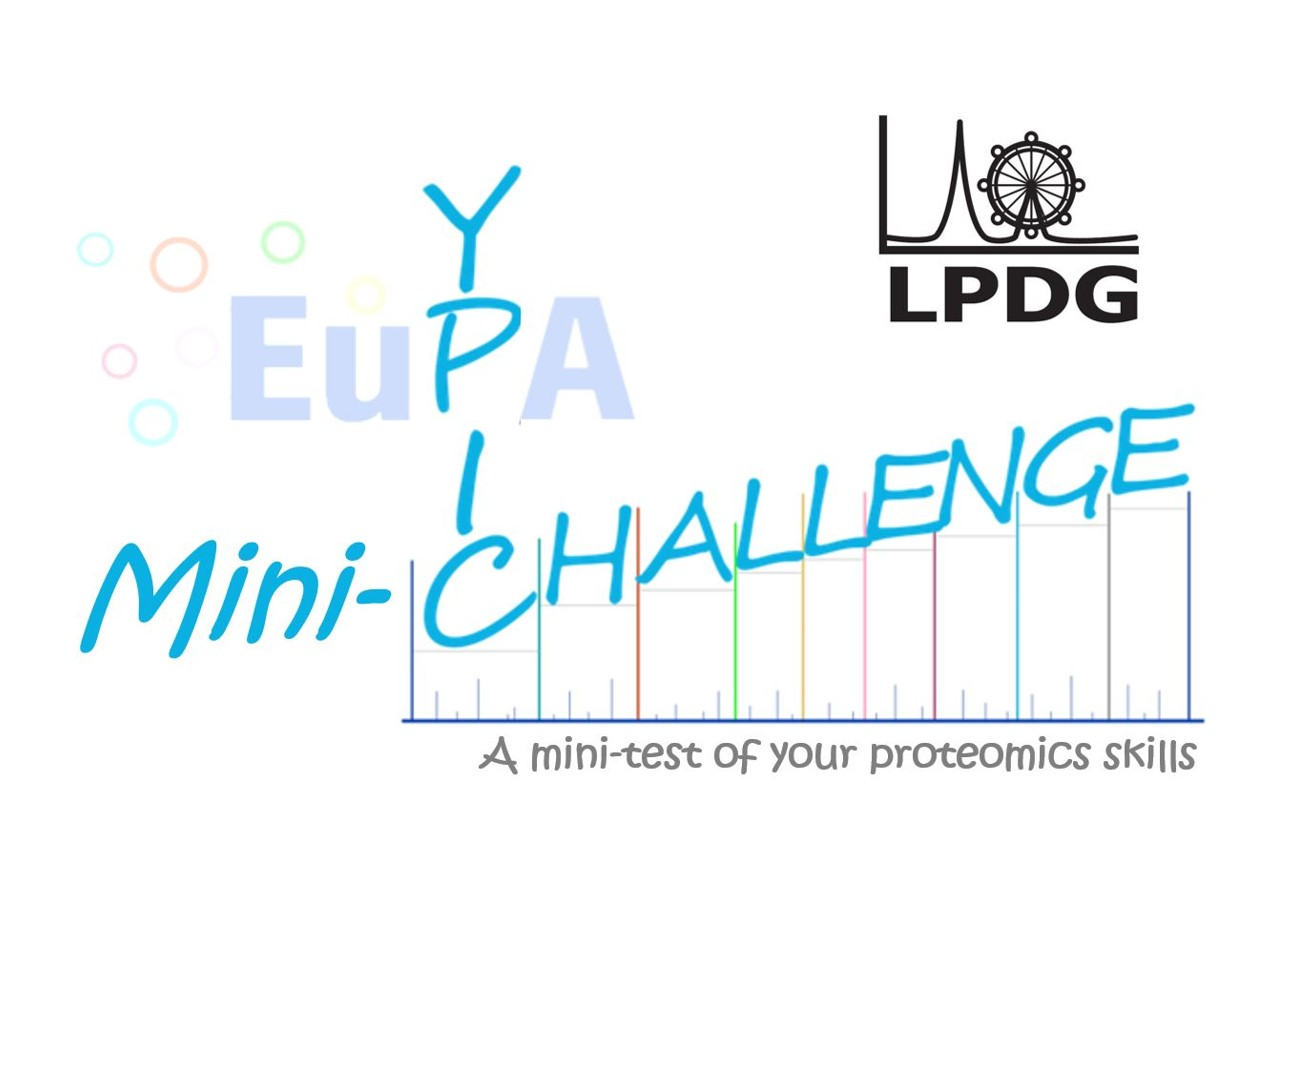
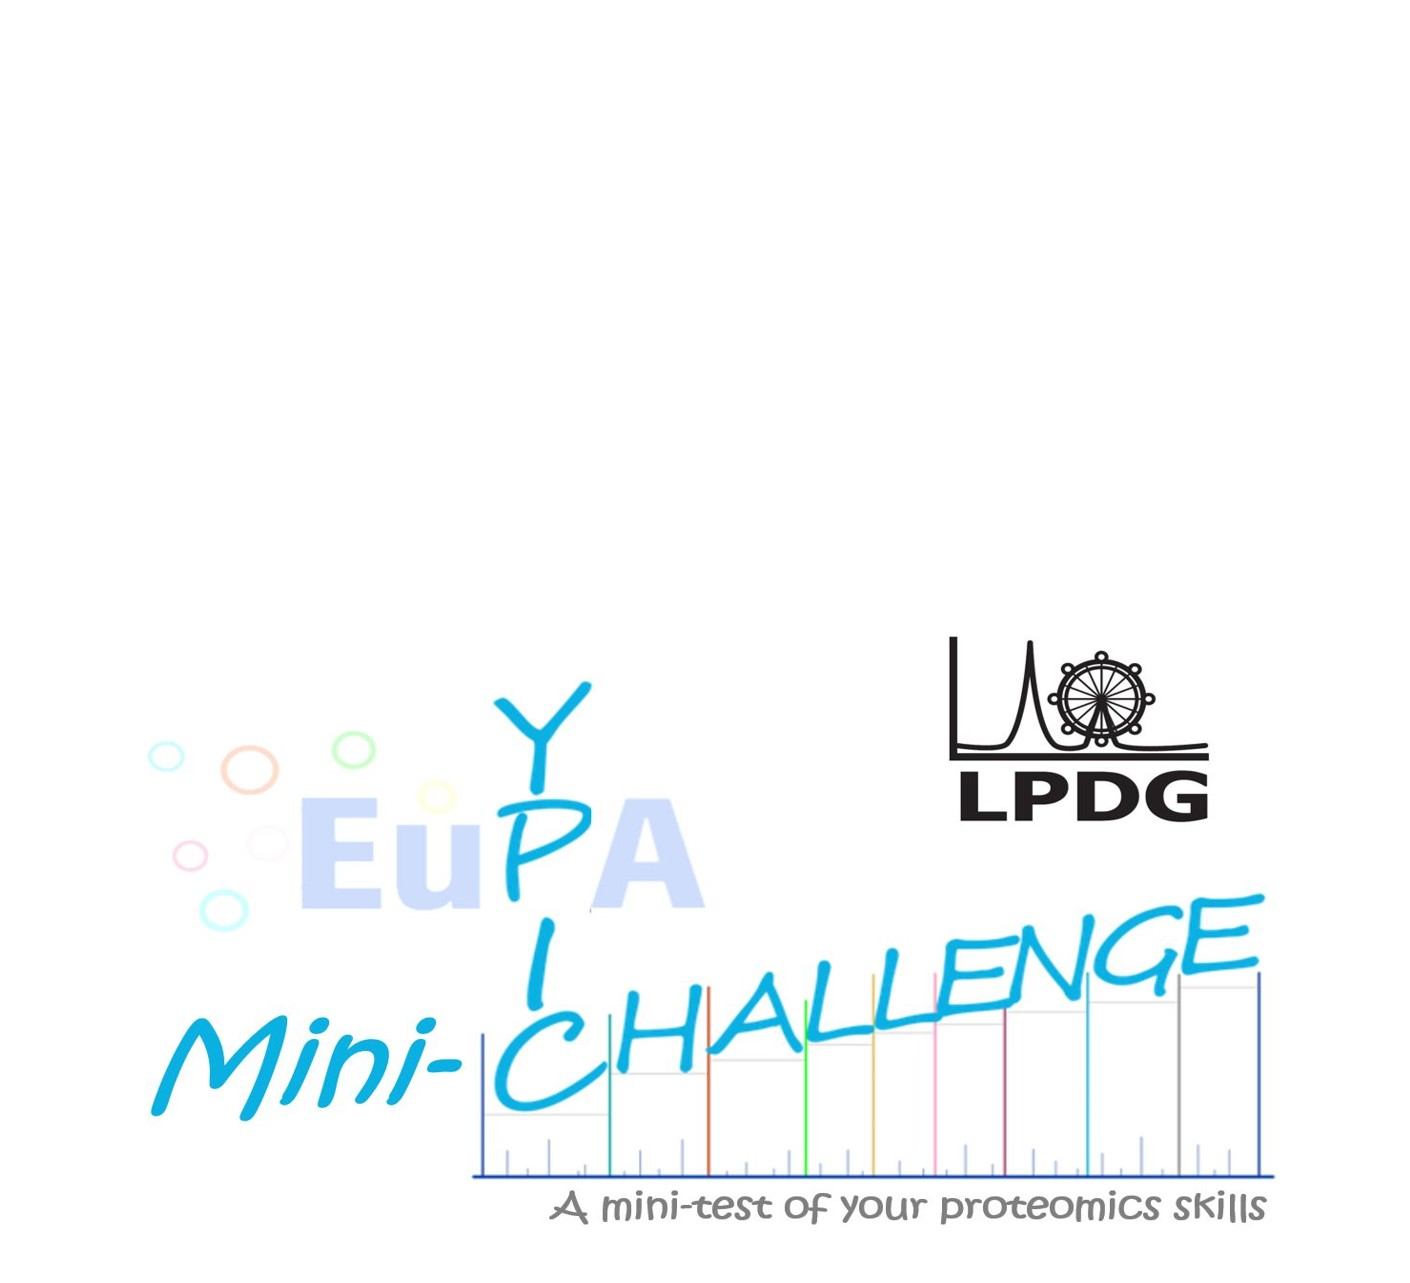
background

diff --git a/challenge.html b/challenge.html
@@ -94,7 +94,7 @@
     <!-- //Navigation End -->
     
     <!-- Section - Home Start -->
-    <section id="home-bg-parallax" class="height-100 no-padding overflow-hidden width-100">
+    <section id="home-bg-parallax-challenge" class="height-100 no-padding overflow-hidden width-100">
         <!-- BG Parallax -->
         <div class="bg-parallax bg-overlay-black-3 width-100"></div>
         

diff --git a/assets/css/dione_style.css b/assets/css/dione_style.css
@@ -63,8 +63,12 @@
 * Home BG Parallax
 */
 
-#home-bg-parallax > .bg-parallax {
+#home-bg-parallax-challenge > .bg-parallax {
     background: url("../images/challenge/minichallenge_padded.jpg");
+}
+
+#home-bg-parallax > .bg-parallax {
+    background: url("../images/LPDGlogo.jpg");
 }
 
 
